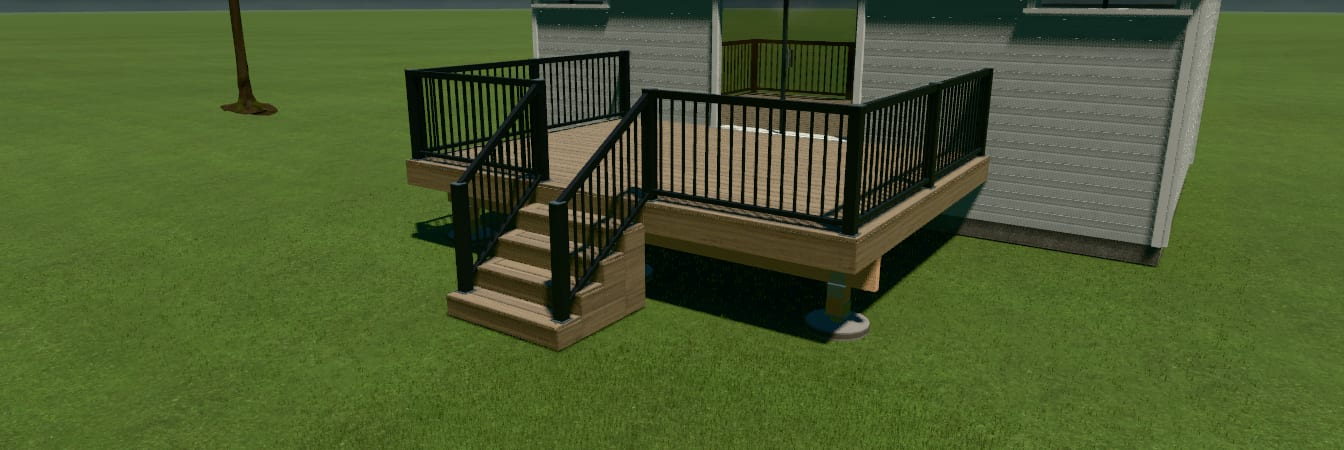
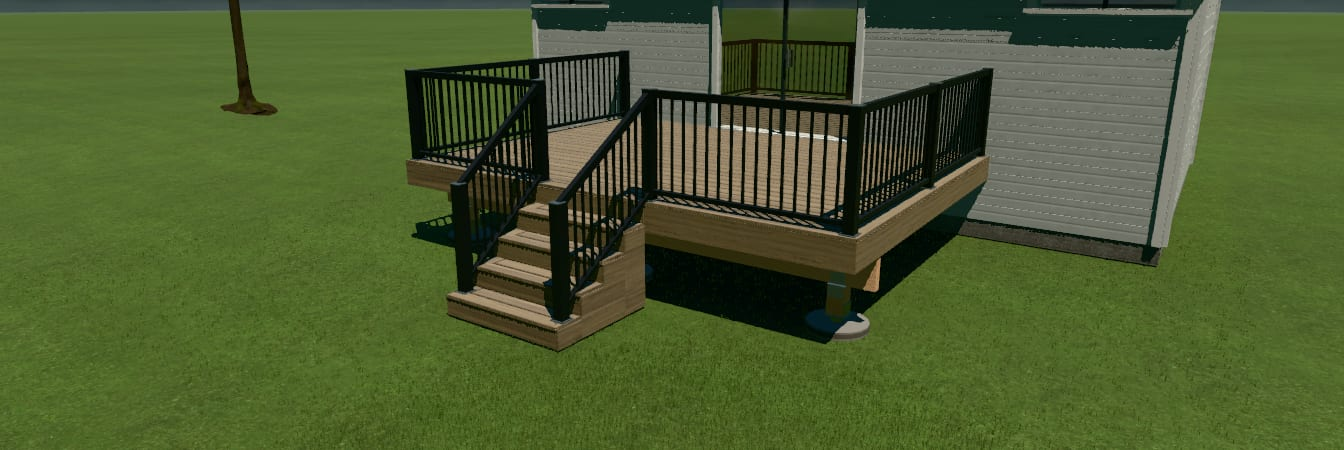
[golden-maple] docs: DeckCraft board realism round 10 renders and scores (fascia boards, solid board lines)

diff --git a/docs/deckcraft/board-realism-2026-10/README.md b/docs/deckcraft/board-realism-2026-10/README.md
@@ -24,7 +24,12 @@ The close camera is a saved camera: `{positionIn:[40,90,24], targetIn:[150,28,12
   slides to a new offset, with a short crossfade. Each board starts its tiles at its own seed, so the handovers never
   line up across the deck. Grain correlation from one 48 in tile to the next is −0.03; a single repeated strip would be 1.
 - **Board edges.** The long edges shade into the gap over about ¼ in, and the shading is never thinner than one pixel.
-  The shade is mean-normalised, so the product colour is unchanged. The edge also goes matte inside that band.
+  At mid distance the 3/16 in gap goes sub-pixel and would break into dots, so there the line darkens (0.62 → 0.30) and
+  carries the board line unbroken. The shade is mean-normalised, so the product colour is unchanged. The edge also
+  goes matte inside that band.
+- **Fascia in its boards.** Each rim run shows the 12 ft boards the estimate prices. They are split evenly, with no
+  sliver at a corner, and butted with a ⅛ in gap. The mitres stay exactly at the corners, and each board has its own
+  grain. A selected manufacturer fascia is split the same way.
 - **Shape.** Boards have a real ⅛ in eased edge, with 2 segments.
 - **Gaps.** A near-black cavity sits under each decked level's own outline. It:
   - never shows past the deck edge;
@@ -36,8 +41,8 @@ The close camera is a saved camera: `{positionIn:[40,90,24], targetIn:[150,28,12
   cuts short are dropped.
 - **Bundle.** The atlas builder now loads lazily for the main-thread fallback, so it leaves the 3D viewer chunk
   (337.9/340 KB, down from 339.8).
-- **Unchanged:** fascia, cladding, skirting, raised-bed timbers, stringers and the box-projected framing look exactly as
-  before.
+- **Unchanged:** apart from the fascia joints, the fascia's surface look, cladding, skirting, raised-bed timbers,
+  stringers and the box-projected framing look exactly as before.
 
 ## Blind critic scores (deck boards only, 1–10)
 
@@ -48,9 +53,16 @@ The critics were not told which image was which. Two critics (Opus and Sonnet) s
 | Harvest, round 8 | 6 → 7, 6 → 7 | 5 → 5, 6 → 5 |
 | Harvest, round 9 (same code) | 7 → 6, 6 → 6 | 6 → 6, 5 → 5 |
 | Costa, round 9 | 6 → 7, 7 → 7 | 6 → 6, 5 → 5 |
+| Harvest, round 10 (+ solid mid-distance lines, fascia boards) | 6 → **7**, 5 → 5 | 5 → **6**, 4 → 4 |
+| Costa, round 10 | 6 → **7**, 6 → 6 | 5 → **6**, 5 → 5 |
 
-The Harvest code is identical in rounds 8 and 9, so the scores move about ±1 by chance. On the default deck the code
-work alone is a small change, close to critic noise. What changes in the renders:
+The Harvest code is identical in rounds 8 and 9, so the scores move about ±1 by chance.
+
+Round 10 is the first clear result. The deck-builder critic picked the new render in all four pairs and gave the reason
+each time: its gaps "render as continuous lines" where the old ones break into dots. The second critic called the pairs
+ties or a marginal edge for the new render.
+
+What changes in the renders:
 - crisper, darker gap lines;
 - board lines that hold at mid distance;
 - no visible grain repeat along a board;
@@ -71,7 +83,9 @@ shots of about 3 in of one board.
 ## What still holds it back (critics' consensus)
 
 - **Grain:** soft and low-contrast up close. 59 of 60 swatches are 600 px or smaller.
-- **Rim, fascia and stairs:** read as flat slabs, with no board seams or butt joints.
-- **Aliasing:** gaps and the rim's top edge alias into dotted lines at mid distance. The rim-edge bead predates this
+- **Fascia joints:** a ⅛ in joint is sub-pixel in these views, as it would be in a photo. The fascia and stair skirts
+  still read as flat, low-contrast faces.
+- **Stairs:** jagged dark "icicle" streaks under the tread nosings. This is shadow aliasing and predates this branch.
+- **Rim edge:** a dotted bead along the rim's top edge, which is the board ends' gaps seen end-on. It predates this
   branch.
 - **Harvest colour:** a little uniform from board to board.
